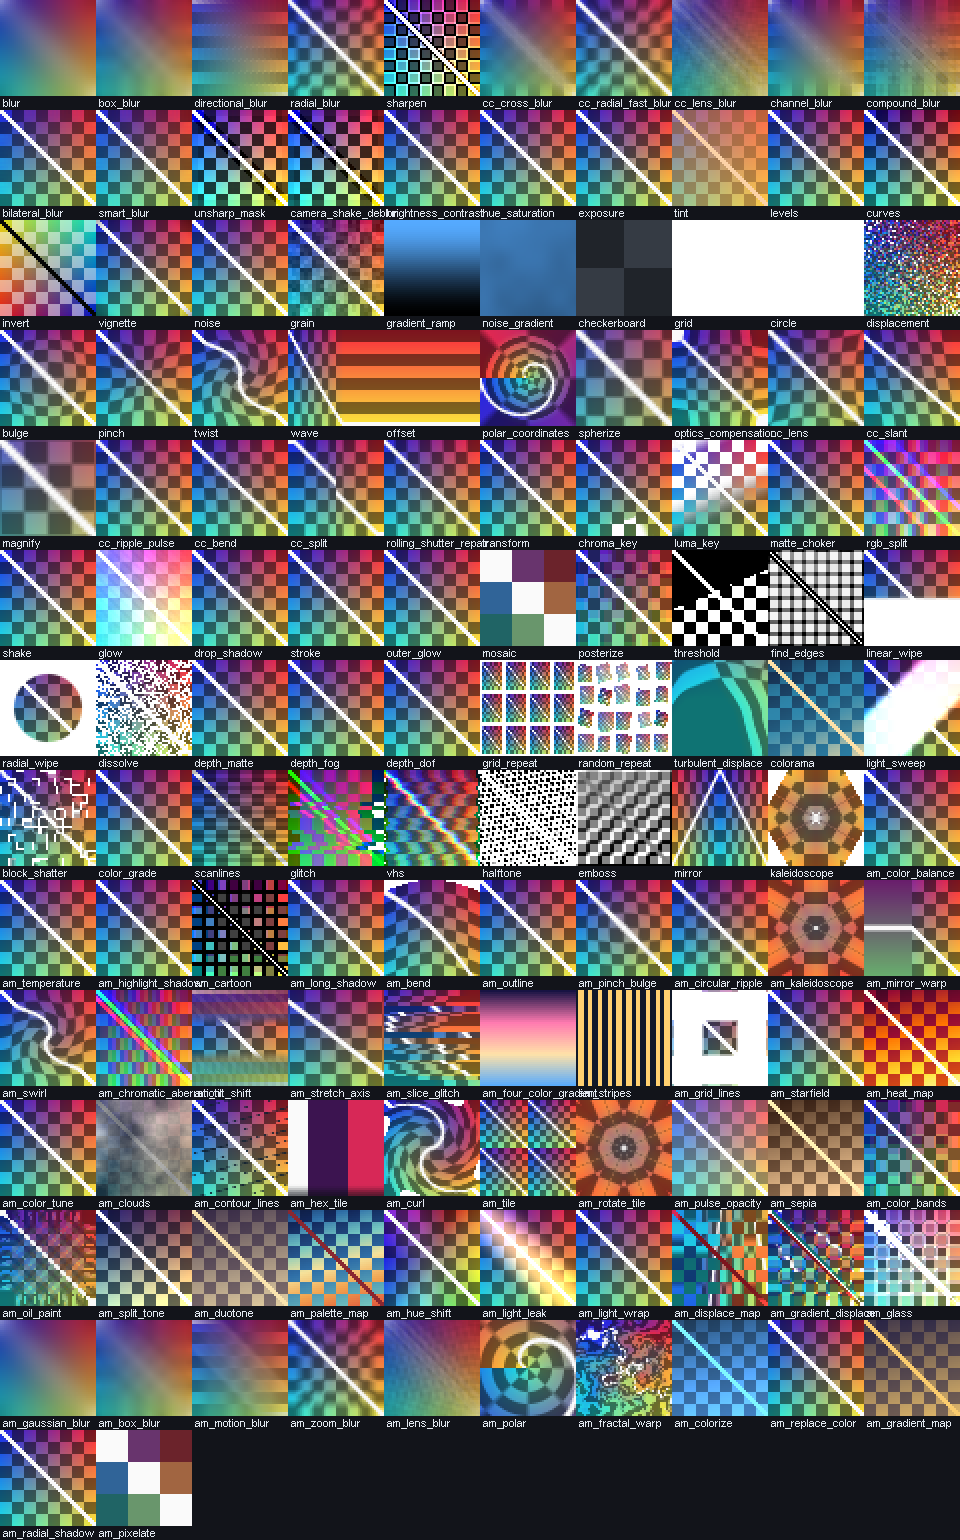
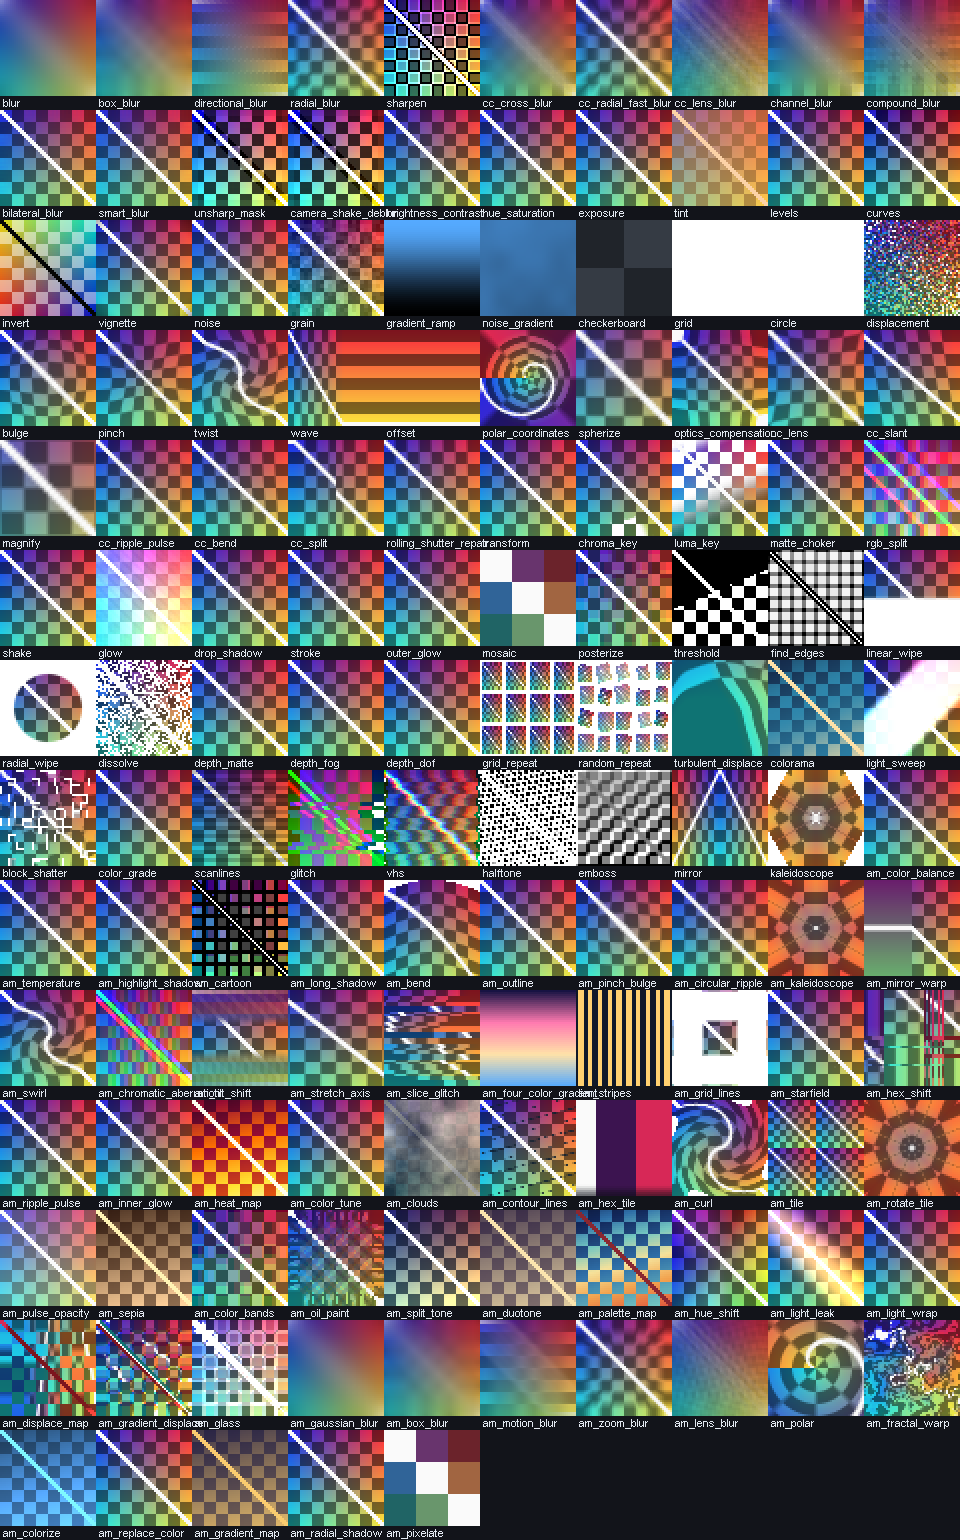
feat(0.36): hex shift, ripple pulse, inner glow + UI milestone verification
- 六边形位移 (per-hex random displacement with seed), 波纹扩散 (time-driven radial wave with
  wavelength/speed/radius), 内发光 (16-tap edge ring, radius 0 = identity). 56 effects total.
- Real-client milestone check (one launch, project backed up and restored): effect-library row
  icons and the inspector section divider between 跟踪器 and 绑定/跟踪 are visible in
  docs/verify/round09-ui-milestone.png and docs/verify/round09-ui-dividers.png.
- Debug-only screenshot hooks: debugExpandEffects, debugInspectorPage, debugInspectorScroll,
  debugWindow (all exposed as gradle properties for runClientView).
- Full suite 321 tests green. Release bbsae-0.36.jar
  (SHA-256 C703E270CD6E454E4B1B8DBCD3E2D5AE9C55B8DC984CB812A42EAE43AF807395).

Changed region(s): [[0.0, 0.6234, 1.0, 1.0]]

diff --git a/src/main/java/dev/bbsae/comp/AmEffectLibrary.java b/src/main/java/dev/bbsae/comp/AmEffectLibrary.java
@@ -475,6 +475,68 @@ public final class AmEffectLibrary
             .p("alpha", "不透明度", 0F, 1F, 1F, 0.01F)
             .p("seed", "随机种子", 0F, 9999F, 0F, 1F));
 
+        add(new AmEffectDef("am_hex_shift", "六边形位移", "AM · 变形", """
+            void main()
+            {
+                vec2 spacing = vec2(1.0, 1.7320508);
+                vec2 p = vUv * Size / max(u_size, 1.0) / spacing;
+                vec2 a = mod(p, spacing) - spacing * 0.5;
+                vec2 b = mod(p + vec2(0.5, 0.0), spacing) - spacing * 0.5;
+                vec2 local = dot(a, a) < dot(b, b) ? a : b;
+                vec2 center = p - local;
+                float h = hash(center + u_seed) * 6.2831853;
+                vec2 offset = vec2(cos(h), sin(h)) * u_amount / max(Size, vec2(1.0));
+                vec4 c = texture(Source, clamp(vUv + offset, 0.0, 1.0));
+                fragColor = vec4(c.rgb, c.a);
+            }
+            """, 0.5F, "amount")
+            .p("amount", "位移（像素）", 0F, 200F, 20F, 1F)
+            .p("size", "六边形大小", 4F, 200F, 40F, 1F)
+            .p("seed", "随机种子", 0F, 9999F, 0F, 1F));
+
+        add(new AmEffectDef("am_ripple_pulse", "波纹扩散", "AM · 变形", """
+            void main()
+            {
+                vec2 center = vec2(u_center_x, u_center_y);
+                vec2 d = vUv - center;
+                float dist = length(d * Size);
+                float phase = dist / max(u_wavelength, 1.0) - Time * max(u_speed, 0.0) * 6.2831853;
+                float wave = sin(phase) * u_strength;
+                float falloff = 1.0 - smoothstep(u_radius * 0.5, u_radius, dist);
+                vec2 offset = dist > 0.0001 ? (d / dist) * wave * falloff / max(Size, vec2(1.0)) : vec2(0.0);
+                vec4 c = texture(Source, clamp(vUv + offset, 0.0, 1.0));
+                fragColor = vec4(c.rgb, c.a);
+            }
+            """, 0.5F, "strength")
+            .p("strength", "强度（像素）", 0F, 80F, 10F, 0.5F)
+            .p("wavelength", "波长", 4F, 400F, 80F, 1F)
+            .p("speed", "速度", 0F, 10F, 0.6F, 0.01F)
+            .p("radius", "范围", 0.05F, 1.5F, 1F, 0.01F)
+            .p("center_x", "中心 X", 0F, 1F, 0.5F, 0.01F)
+            .p("center_y", "中心 Y", 0F, 1F, 0.5F, 0.01F));
+
+        add(new AmEffectDef("am_inner_glow", "内发光", "AM · 风格化", """
+            void main()
+            {
+                vec4 c = texture(Source, vUv);
+                float ring = 0.0;
+
+                for (int i = 0; i < 16; i++)
+                {
+                    float a = float(i) * 0.3926991;
+                    vec2 offset = vec2(cos(a), sin(a)) * (u_radius / max(Size, vec2(1.0)));
+                    ring = max(ring, texture(Source, clamp(vUv + offset, 0.0, 1.0)).a);
+                }
+
+                float inner = smoothstep(0.0, 1.0, ring) * (1.0 - c.a) * clamp(u_strength, 0.0, 2.0);
+                vec3 rgb = clamp(c.rgb + u_color.rgb * inner, 0.0, 1.0);
+                fragColor = vec4(rgb, c.a);
+            }
+            """, 0F, "radius")
+            .p("radius", "范围", 0F, 60F, 12F, 1F)
+            .p("strength", "强度", 0F, 2F, 1F, 0.01F)
+            .c("color", "发光颜色", 0xFFFFE08A));
+
         add(new AmEffectDef("am_heat_map", "热力图", "AM · 调色", """
             void main()
             {

diff --git a/src/main/java/dev/bbsae/client/ui/UICompositorPanel.java b/src/main/java/dev/bbsae/client/ui/UICompositorPanel.java
@@ -7392,6 +7392,36 @@ public class UICompositorPanel extends UIDashboardPanel
             this.importVideoFile(new java.io.File(video));
         }
 
+        /* Verification hook: jump to an inspector page so a screenshot can show the section
+         * dividers on a page with several groups (the effect page only has one). */
+        String debugPage = System.getProperty("bbsae.debugInspectorPage", "");
+
+        if (!debugPage.isBlank())
+        {
+            switch (debugPage)
+            {
+                case "layer" -> this.setInspectorPage(PAGE_LAYER);
+                case "mask" -> this.setInspectorPage(PAGE_MASK);
+                case "text" -> this.setInspectorPage(PAGE_TEXT);
+                case "comp" -> this.setInspectorPage(PAGE_COMP);
+                case "output" -> this.setInspectorPage(PAGE_OUTPUT);
+                default -> this.setInspectorPage(PAGE_EFFECTS);
+            }
+        }
+
+        String debugScroll = System.getProperty("bbsae.debugInspectorScroll", "");
+
+        if (!debugScroll.isBlank())
+        {
+            try
+            {
+                this.inspector.scroll.setScroll(Double.parseDouble(debugScroll));
+            }
+            catch (NumberFormatException ignored)
+            {
+            }
+        }
+
         switch (view)
         {
             case "settings":

diff --git a/src/test/java/dev/bbsae/comp/AmEffectLibraryTest.java b/src/test/java/dev/bbsae/comp/AmEffectLibraryTest.java
@@ -37,7 +37,7 @@ public class AmEffectLibraryTest
             assertTrue(definition.body.contains("fragColor"), "body writes no colour: " + definition.id);
         }
 
-        assertTrue(ids.size() >= 53, "the catalogue should have grown with the procedural batch");
+        assertTrue(ids.size() >= 56, "the catalogue should have grown with the hex/ripple batch");
     }
 
     @Test
@@ -107,6 +107,9 @@ public class AmEffectLibraryTest
         assertNeutral("am_clouds", "alpha", 0F);
         assertNeutral("am_contour_lines", "alpha", 0F);
         assertNeutral("am_curl", "angle", 0F);
+        assertNeutral("am_hex_shift", "amount", 0F);
+        assertNeutral("am_ripple_pulse", "strength", 0F);
+        assertNeutral("am_inner_glow", "radius", 0F);
 
         CompEffect balance = CompEffectRegistry.create("am_color_balance", 1);
 

diff --git a/src/main/java/dev/bbsae/client/ui/UIEffectLibrary.java b/src/main/java/dev/bbsae/client/ui/UIEffectLibrary.java
@@ -64,6 +64,13 @@ public class UIEffectLibrary extends UIElement
             this.rebuild();
         });
 
+        /* Verification hook: the screenshot harness needs every category open to show the row
+         * icons; it is a single property read and never set in normal play. */
+        if (Boolean.getBoolean("bbsae.debugExpandEffects"))
+        {
+            this.expanded.addAll(CATEGORIES.keySet());
+        }
+
         this.list = new UIEffectList((selection) -> this.refreshStatus());
         this.list.background();
         /* A little more air per row. The old 14 px rows plus a 16 px thumbnail read as a dense

diff --git a/README.md b/README.md
@@ -110,15 +110,15 @@ export** without touching the `.dat` film format.
 
 ## Download / Install
 
-1. Download [`bbsae-0.35.jar`](https://github.com/zhongend/bbsae/releases/download/v0.35/bbsae-0.35.jar)
-   from the **v0.35** release (the asset is updated with each source push).
+1. Download [`bbsae-0.36.jar`](https://github.com/zhongend/bbsae/releases/download/v0.36/bbsae-0.36.jar)
+   from the **v0.36** release (the asset is updated with each source push).
 2. Install **Minecraft 1.20.1**, **Fabric Loader 0.16.14+**, **Fabric API 0.92.1+1.20.1** and
    **BBS FS 2.7-1.20.1**.
-3. Put `bbsae-0.35.jar` and the BBS FS jar into the game's `mods/` folder.
+3. Put `bbsae-0.36.jar` and the BBS FS jar into the game's `mods/` folder.
 4. Launch the game, open a film in BBS, select a replay, then use
    **Replay properties → Compositor → Open Film Compositor**.
 
[2 lines of base64/hex data omitted]
 
 ## Gallery
 
@@ -185,6 +185,18 @@ The compositor does not re-encode films or patch `.dat` files. BBS serializes a 
 `RegisterFrameOverlaysEvent` point. That means the same composition appears in BBS's preview and in
 its FFmpeg film export, and BBS keeps ownership of keyframes, undo, project storage and video
 encoding.
+
+## What's new in 0.36 — hex shift, ripple pulse, inner glow and a real UI milestone check
+
+- **六边形位移** (per-hex random displacement), **波纹扩散** (time-driven radial wave),
+  **内发光** (16-tap edge ring) — 56 reference-compatible effects total.
+- Milestone verification in the real client (single launch, project restored afterwards):
+  effect-library row icons, the inspector section dividers between 跟踪器 and 绑定/跟踪, and the
+  tracker UI are visible in `docs/verify/round09-ui-milestone.png` and
+  `docs/verify/round09-ui-dividers.png`.
+- Debug-only screenshot hooks (`debugExpandEffects`, `debugInspectorPage`, `debugInspectorScroll`,
+  `debugWindow`) let future verification capture a specific panel state in one command.
+- 321 tests green.
 
 ## What's new in 0.35 — procedural and colour batch
 

diff --git a/docs/EFFECT-LIBRARY-PLAN.zh.md b/docs/EFFECT-LIBRARY-PLAN.zh.md
@@ -45,7 +45,7 @@
 新增三层，效果不再需要写进 `EffectRenderer` 的巨型 switch：
 
 - `comp/AmEffectDef`：id、显示名、分类、参数表（float/color）、`main()` 片段、零点参数。
-- `comp/AmEffectLibrary`：53 个效果的定义（色彩平衡、色温、高光与阴影、卡通、长阴影、
+- `comp/AmEffectLibrary`：56 个效果的定义（色彩平衡、色温、高光与阴影、卡通、长阴影、
   弯曲、描边、收缩与膨胀、圆形波纹、万花筒、镜像、旋转扭曲、像素化、极坐标、分形扭曲、
   色彩化、替换颜色、渐变映射、径向阴影），参数名/范围/默认值与参考应用一致。
 - `client/render/AmEffectRenderer`：按定义拼装完整 fragment（标准 uniform + 参数 uniform +
@@ -160,6 +160,13 @@ switch 中拆出来：
 4.10 **第五批**（分离色调、双色调、色彩映射、色相偏移、漏光、光包裹；已完成）
 4.11 **重复/风格批**（平铺、旋转平铺、脉动不透明度、棕褐色、色带、油画；已完成）
 4.12 **程序化/调色批**（热力图、色偏、云雾、等高线、六边形平铺、卷曲；已完成）
+4.13 **六边形位移/波纹/内发光**（已完成）
+4.14 **UI 里程碑验收**（真实客户端截图）
+    - 效果库：展开分类后每行左侧图标可见（`docs/verify/round09-ui-milestone.png`）；
+    - 检查器：跟踪器分区与「绑定/跟踪」分区之间的分割线可见
+      （`docs/verify/round09-ui-dividers.png`）；
+    - 新增仅调试用钩子：`bbsae.debugExpandEffects`、`bbsae.debugInspectorPage`、
+      `bbsae.debugInspectorScroll`、`bbsae.debugWindow`，方便以后一条命令截图验收。
     - `CompRenderContext.backdrop` 承载"当前图层下方的合成"，由 `CompRenderer` 在图层效果循环与
       调整层处理期间设置/恢复；
     - `AmEffectDef.comp()` 声明效果读取 `Comp`，渲染器绑定 backdrop（无 backdrop 时回退到自身输入）；
